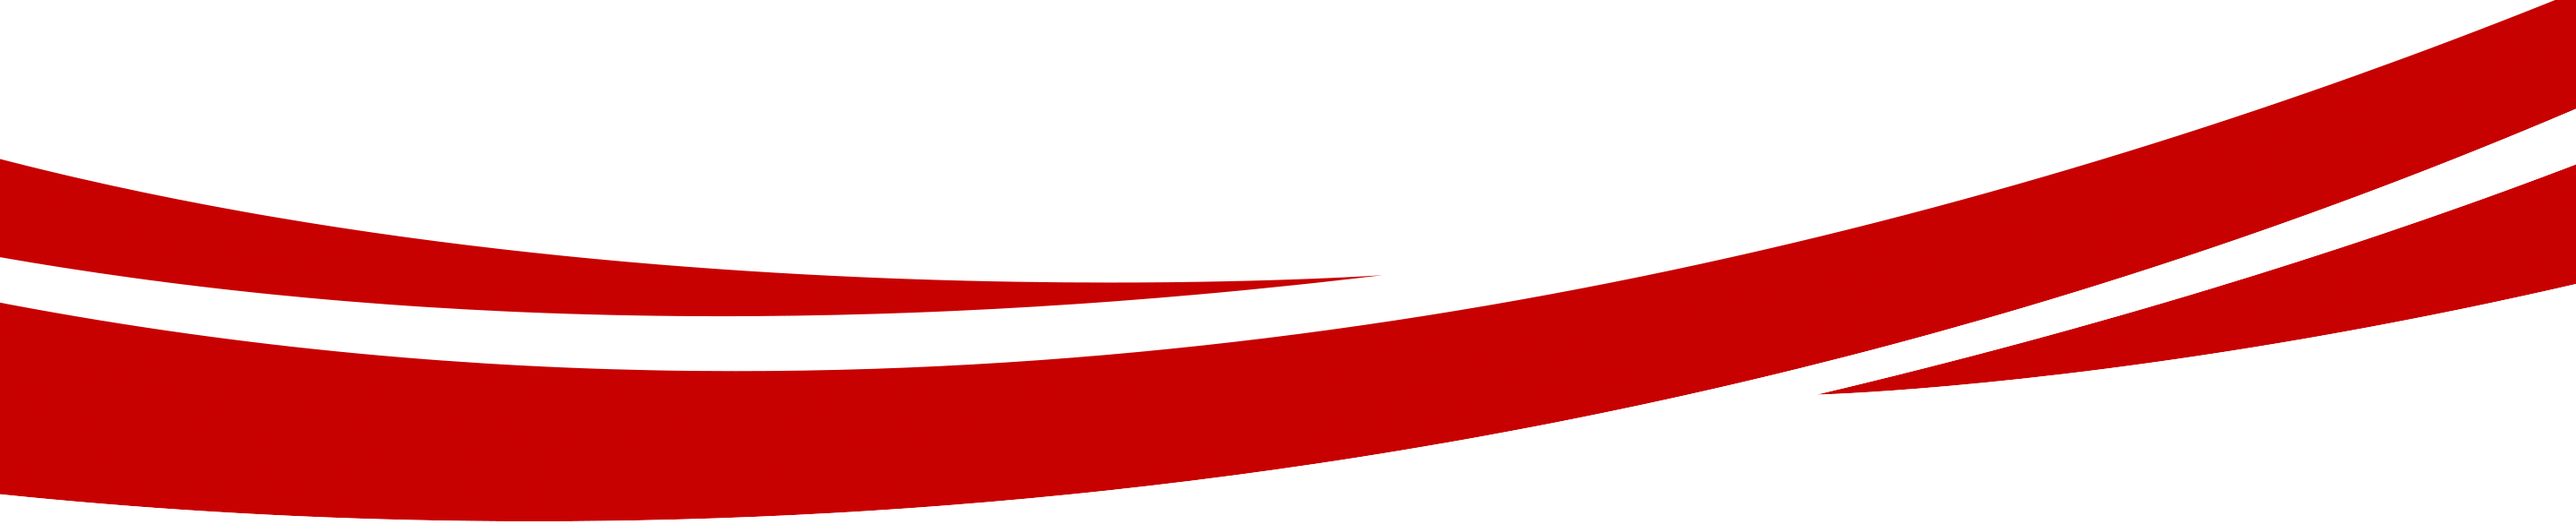
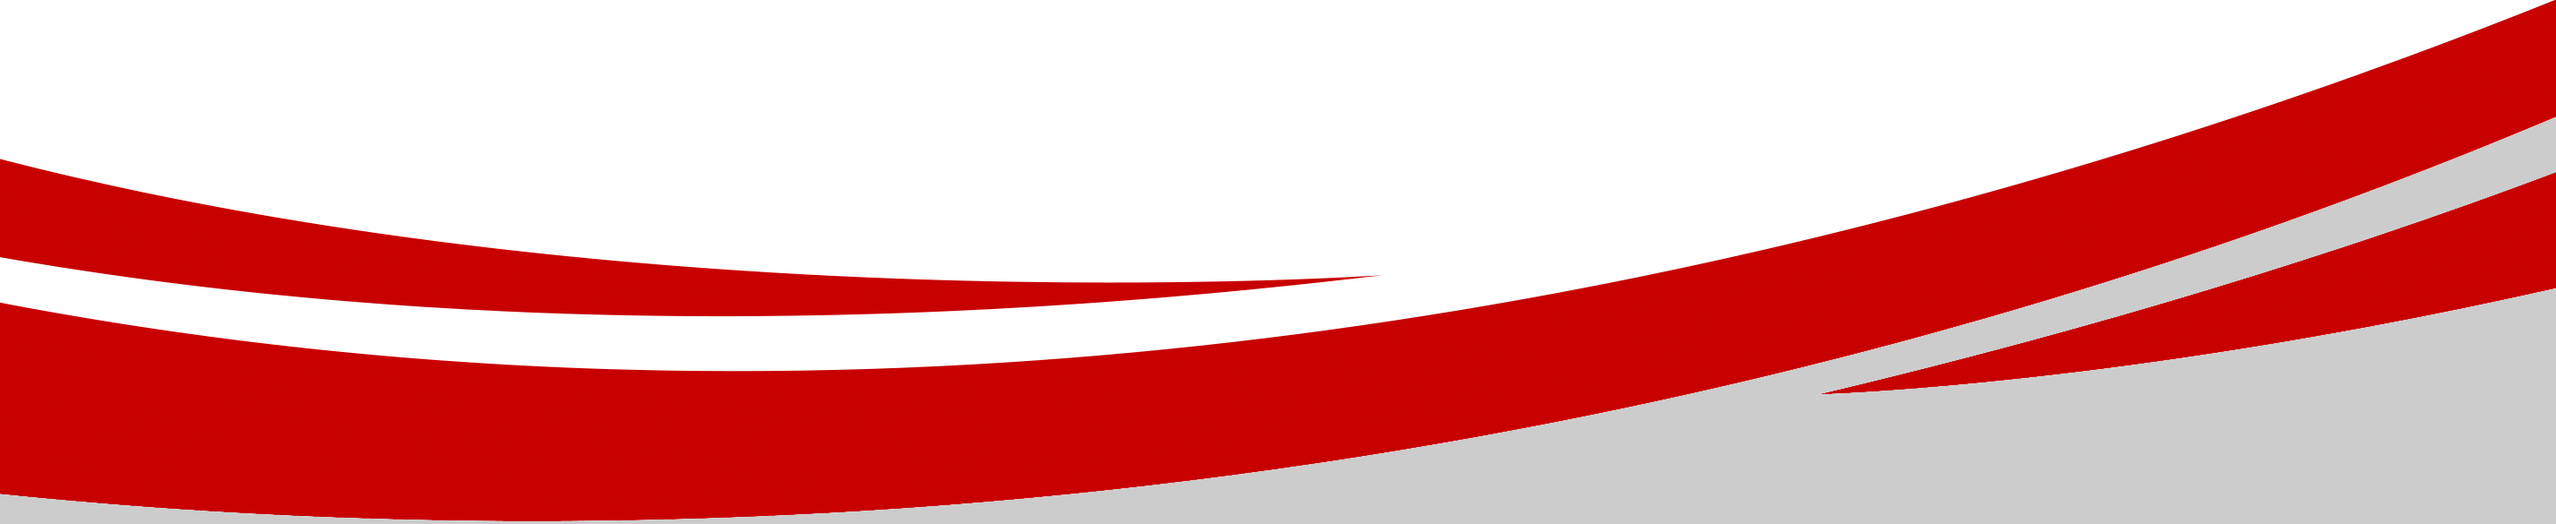
carousel buttons tweaked and wave rendered transparent

diff --git a/css/megamenu.css b/css/megamenu.css
@@ -85,6 +85,23 @@ Screen style's
     color: #333;
 }
 
+.language {
+ position: absolute;
+ right: 20px;
+ top: 60px;
+ color:#cb161d;
+ z-index:100;
+}
+
+.language > a {
+ color:#333;
+}
+
+.language > a:hover {
+ color:#333;
+ text-decoration:none;
+}
+
 .menu > ul {
     margin: 0 auto;
     width: 100%;
@@ -144,12 +161,12 @@ Screen style's
     box-sizing: border-box;
 }
 
-@media screen and (max-width: 959px) {
+@media screen and (max-width: 990px) {
   .menu > ul > li a {
       top: 5px; 
   } 
 }
-@media screen and (min-width: 959px) {
+@media screen and (min-width: 990px) {
   .menu > ul > li a {
       top: 45px; 
   }
@@ -243,9 +260,10 @@ a:hover.sti_menu_link {
 Mobile styles
 –––––––––––––––––––––––––––––––––––––––––––––––––– */
 
-@media only screen and (max-width: 959px) {
+@media only screen and (max-width: 990px) {
     .menu-container {
         width: 100%;
+	background-image: none;
     }
     .menu-mobile {
         display: block;

diff --git a/css/firststep.css b/css/firststep.css
@@ -69,7 +69,7 @@ div.news {
 #containernews {
   height: 60px;
   position: relative;
-  top: -120px;
+  top: -70px;
   padding: 0px 0px 0px 45px;
   z-index: 3;
 }

diff --git a/front-page.php b/front-page.php
@@ -20,7 +20,7 @@ use function EPFL\STI\{ get_events_from_memento,
 
 <div>
     <div class="pixelman">
-        <div id="containercalendar">
+        <div style='display:none;' id="containercalendar">
             <table cellpadding="16" style="background-image:url('https://stisrv13.epfl.ch/proposals/darkpixel.png');">
                 <td>
                     <table class="slider-event-table">
@@ -102,7 +102,7 @@ $( "tr.slider-event-row" )
                       <div class="pixelman">
                           <div id="containernews">
                               <a class="titlelink" href="http://sti.epfl.ch/page-108381.html#anchor2019">Early career award in photonics </a><br>
-                              <a class="titlelink subtitlelink" href="http://sti.epfl.ch/page-108381.html#anchor2019">Prof. Camille Brès has received the Early Career Women/Entrepreneur award in Photonics</a><br>
+                              <a class="titlelink subtitlelink" href="http://sti.epfl.ch/page-108381.html#anchor2019"></a><br>
                           </div>
                       </div>
                   </div>
@@ -116,7 +116,7 @@ $( "tr.slider-event-row" )
                       <div class="pixelman">
                           <div id="containernews">
                               <a class="titlelink" href="#">A long-term implant to restore walking</a><br>
-                              <a class="titlelink subtitlelink" href="#">Prof. Stéphanie Lacour of the Institute of Bioengineering</a><br>
+                              <a class="titlelink subtitlelink" href="#"></a><br>
                           </div>
                       </div>
                   </div>

diff --git a/header.php b/header.php
@@ -48,6 +48,8 @@ $container = get_theme_mod( 'epflsti_container_type' );
                     the_custom_logo();
             } ?><!-- end custom logo -->
 
+	<div class=language><a href='french'>FR&nbsp;&nbsp;/</a>&nbsp;&nbsp;EN</div>
+
       <ul>
             <li><a class="sti_menu_link" href="#">THE SCHOOL</a>
 
